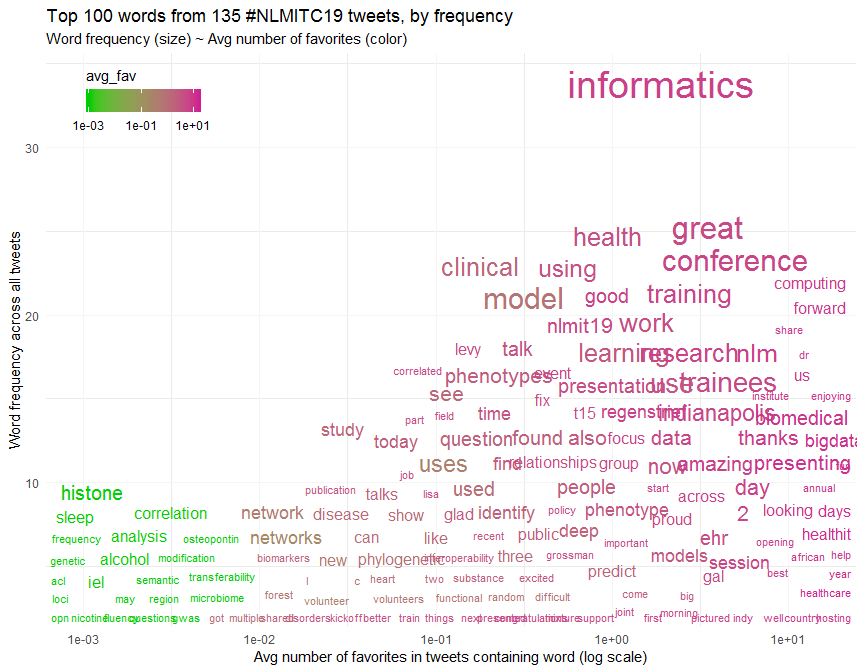
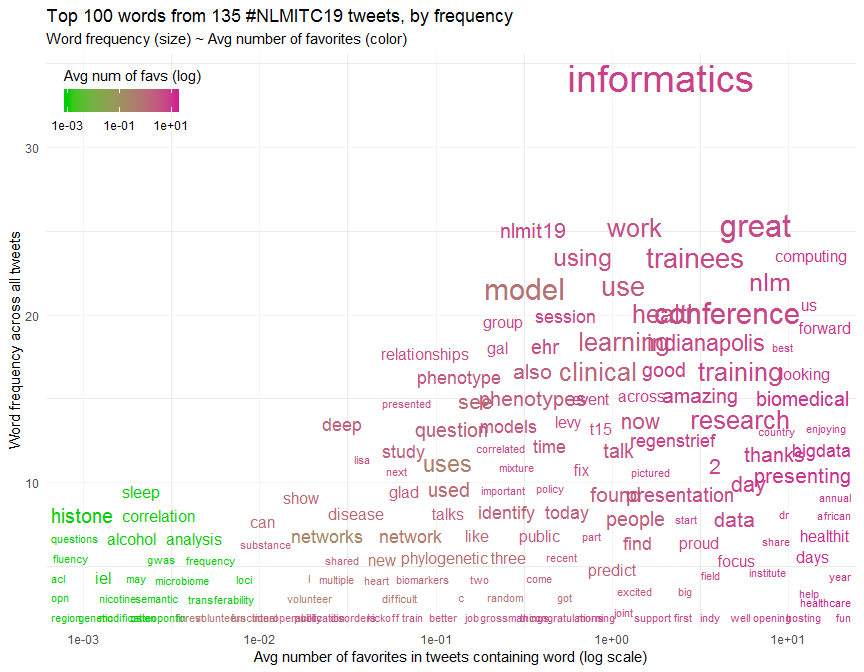
Minor changes and plot follower count vs favorites

Changed region(s): [[0.0625, 0.3125, 1.0, 0.9375], [0.0625, 0.0938, 0.25, 0.2188], [0.6562, 0.0938, 0.875, 0.1562]]

diff --git a/README.md b/README.md
@@ -6,8 +6,6 @@
 -   [Relationship between follower count and tweet
     popularity](#relationship-between-follower-count-and-tweet-popularity)
 -   [Chatterplot of tweet words](#chatterplot-of-tweet-words)
--   [Resources that have helped me along the
-    way](#resources-that-have-helped-me-along-the-way)
 -   [Session information](#session-information)
 
 Load libraries
@@ -56,6 +54,9 @@ But instead, here I’ll just look up the status IDs.
 
 General tweet prevalence over time
 ----------------------------------
+
+Code modified from
+[`rstudioconf_tweets`](https://github.com/mkearney/rstudioconf_tweets).
 
     rt %>%
       ts_plot("30 minutes", color = "transparent") +
@@ -115,190 +116,42 @@ Relationship between follower count and tweet popularity
 
 Do more followers have more popular tweets?
 
+I take the average number of favorite of an individual’s tweets and
+normalize it based on the total number of tweets.
+
     rt %>%
       # Preprocess and count average favorites normalized by number of tweets
       group_by(screen_name) %>%
       mutate(avg_fav = mean(favorite_count)) %>%
+      mutate(avg_norm_fav = avg_fav / n()) %>%
       ungroup() %>%
-      select(screen_name, avg_fav, followers_count) %>%
-      distinct()
+      select(screen_name, avg_fav, avg_norm_fav, followers_count) %>%
+      distinct() %>%
 
-<table>
-<thead>
-<tr class="header">
-<th style="text-align: left;">screen_name</th>
-<th style="text-align: right;">avg_fav</th>
-<th style="text-align: right;">followers_count</th>
-</tr>
-</thead>
-<tbody>
-<tr class="odd">
-<td style="text-align: left;">mirzakhan_</td>
-<td style="text-align: right;">2.0000000</td>
-<td style="text-align: right;">12</td>
-</tr>
-<tr class="even">
-<td style="text-align: left;">BioMedDataSci</td>
-<td style="text-align: right;">1.0000000</td>
-<td style="text-align: right;">174</td>
-</tr>
-<tr class="odd">
-<td style="text-align: left;">ColumbiaDBMI</td>
-<td style="text-align: right;">4.6666667</td>
-<td style="text-align: right;">175</td>
-</tr>
-<tr class="even">
-<td style="text-align: left;">FSPH_IUPUI</td>
-<td style="text-align: right;">2.6666667</td>
-<td style="text-align: right;">885</td>
-</tr>
-<tr class="odd">
-<td style="text-align: left;">varunamohan</td>
-<td style="text-align: right;">0.5000000</td>
-<td style="text-align: right;">141</td>
-</tr>
-<tr class="even">
-<td style="text-align: left;">JamiJackson</td>
-<td style="text-align: right;">7.5000000</td>
-<td style="text-align: right;">1250</td>
-</tr>
-<tr class="odd">
-<td style="text-align: left;">real_kev</td>
-<td style="text-align: right;">10.5000000</td>
-<td style="text-align: right;">282</td>
-</tr>
-<tr class="even">
-<td style="text-align: left;">Regenstrief</td>
-<td style="text-align: right;">6.0000000</td>
-<td style="text-align: right;">1892</td>
-</tr>
-<tr class="odd">
-<td style="text-align: left;">hshoch</td>
-<td style="text-align: right;">6.0000000</td>
-<td style="text-align: right;">350</td>
-</tr>
-<tr class="even">
-<td style="text-align: left;">DanielPanyard</td>
-<td style="text-align: right;">3.3333333</td>
-<td style="text-align: right;">52</td>
-</tr>
-<tr class="odd">
-<td style="text-align: left;">ngehlenborg</td>
-<td style="text-align: right;">9.0000000</td>
-<td style="text-align: right;">2678</td>
-</tr>
-<tr class="even">
-<td style="text-align: left;">EricFeczko</td>
-<td style="text-align: right;">3.0000000</td>
-<td style="text-align: right;">162</td>
-</tr>
-<tr class="odd">
-<td style="text-align: left;">dpugrad01</td>
-<td style="text-align: right;">5.7142857</td>
-<td style="text-align: right;">671</td>
-</tr>
-<tr class="even">
-<td style="text-align: left;">erictleung</td>
-<td style="text-align: right;">0.9107143</td>
-<td style="text-align: right;">653</td>
-</tr>
-<tr class="odd">
-<td style="text-align: left;">titusschleyer</td>
-<td style="text-align: right;">10.6000000</td>
-<td style="text-align: right;">950</td>
-</tr>
-<tr class="even">
-<td style="text-align: left;">aaron_coyner</td>
-<td style="text-align: right;">6.0000000</td>
-<td style="text-align: right;">123</td>
-</tr>
-<tr class="odd">
-<td style="text-align: left;">JoshHerigon</td>
-<td style="text-align: right;">12.0000000</td>
-<td style="text-align: right;">947</td>
-</tr>
-<tr class="even">
-<td style="text-align: left;">griffinashleyc</td>
-<td style="text-align: right;">0.0000000</td>
-<td style="text-align: right;">73</td>
-</tr>
-<tr class="odd">
-<td style="text-align: left;">steminformatics</td>
-<td style="text-align: right;">8.0000000</td>
-<td style="text-align: right;">118</td>
-</tr>
-<tr class="even">
-<td style="text-align: left;">jmschabdach</td>
-<td style="text-align: right;">2.0000000</td>
-<td style="text-align: right;">0</td>
-</tr>
-<tr class="odd">
-<td style="text-align: left;">williamhersh</td>
-<td style="text-align: right;">7.8000000</td>
-<td style="text-align: right;">2460</td>
-</tr>
-<tr class="even">
-<td style="text-align: left;">NateApathy</td>
-<td style="text-align: right;">4.3333333</td>
-<td style="text-align: right;">451</td>
-</tr>
-<tr class="odd">
-<td style="text-align: left;">bacordier</td>
-<td style="text-align: right;">6.5000000</td>
-<td style="text-align: right;">117</td>
-</tr>
-<tr class="even">
-<td style="text-align: left;">EDHGates</td>
-<td style="text-align: right;">0.5000000</td>
-<td style="text-align: right;">14</td>
-</tr>
-<tr class="odd">
-<td style="text-align: left;">InSiliConjurer</td>
-<td style="text-align: right;">3.0000000</td>
-<td style="text-align: right;">108</td>
-</tr>
-<tr class="even">
-<td style="text-align: left;">embimd</td>
-<td style="text-align: right;">9.0000000</td>
-<td style="text-align: right;">1537</td>
-</tr>
-<tr class="odd">
-<td style="text-align: left;">TelementalHlth</td>
-<td style="text-align: right;">15.0000000</td>
-<td style="text-align: right;">47</td>
-</tr>
-<tr class="even">
-<td style="text-align: left;">vekerchberger</td>
-<td style="text-align: right;">2.0000000</td>
-<td style="text-align: right;">23</td>
-</tr>
-<tr class="odd">
-<td style="text-align: left;">DBMI_Pitt</td>
-<td style="text-align: right;">3.0000000</td>
-<td style="text-align: right;">793</td>
-</tr>
-<tr class="even">
-<td style="text-align: left;">SciPolSam</td>
-<td style="text-align: right;">3.0000000</td>
-<td style="text-align: right;">164</td>
-</tr>
-<tr class="odd">
-<td style="text-align: left;">AJAveritt</td>
-<td style="text-align: right;">8.0000000</td>
-<td style="text-align: right;">57</td>
-</tr>
-<tr class="even">
-<td style="text-align: left;">MollyJCarroll</td>
-<td style="text-align: right;">4.5000000</td>
-<td style="text-align: right;">94</td>
-</tr>
-<tr class="odd">
-<td style="text-align: left;">andrewsjourney</td>
-<td style="text-align: right;">3.0000000</td>
-<td style="text-align: right;">116</td>
-</tr>
-</tbody>
-</table>
+      # Offset to not create infinite values when log transforming
+      mutate(followers_count = followers_count + 0.001) %>%
+      mutate(avg_norm_fav = avg_norm_fav + 0.001) %>%
+
+      # Plot results
+      ggplot(aes(x = followers_count, y = avg_norm_fav, label = screen_name)) +
+      geom_text_repel() +
+      geom_point() +
+
+      # Use log-scale for x-axis and y-axis
+      scale_x_log10() +
+      labs(title = "Average normalized number of favorites\nversus user follower count",
+           x = "Number of followers (log scale)",
+           y = "Average normalized number of favorites",
+           caption = "\nSource: Data gathered via Twitter's standard `search/tweets` API using rtweet") +
+
+      # Theme styling information
+      theme_minimal(base_size = 15) +
+      theme(axis.text = element_text(colour = "#222222"),
+            plot.title = element_text(size = rel(1.7), face = "bold"),
+            plot.subtitle = element_text(size = rel(1.3)),
+            plot.caption = element_text(colour = "#444444"))
+
+![](README_files/figure-markdown_strict/follower_vs_favorites-1.png)
 
 Chatterplot of tweet words
 --------------------------
@@ -348,6 +201,9 @@ Chatterplot of tweet words
       filter(word != "nlmitc19") %>%
       left_join(rt_word_avg_fav, by = "word")
 
+Code below modified from [“RIP wordclouds, long live
+CHATTERPLOTS”](https://towardsdatascience.com/rip-wordclouds-long-live-chatterplots-e76a76896098).
+
     chatter_rt %>%
       # Add small offset average favorite counts because some are zero and we log
       # transform, which can introduce infinite values
@@ -376,7 +232,8 @@ Chatterplot of tweet words
                      " #NLMITC19 tweets, by frequency"),
               subtitle = "Word frequency (size) ~ Avg number of favorites (color)") + 
       labs(y = "Word frequency across all tweets",
-           x = "Avg number of favorites in tweets containing word (log scale)") +
+           x = "Avg number of favorites in tweets containing word (log scale)",
+           colour = "Avg num of favs (log)") +
       
       # minimal theme & customizations
       theme_minimal() +
@@ -385,13 +242,6 @@ Chatterplot of tweet words
             panel.grid.major = element_line(colour = "whitesmoke"))
 
 ![](README_files/figure-markdown_strict/plot_chatter-1.png)
-
-Resources that have helped me along the way
--------------------------------------------
-
--   [rstudioconf\_tweets](https://github.com/mkearney/rstudioconf_tweets)
--   [RIP wordclouds, long live
-    CHATTERPLOTS](https://towardsdatascience.com/rip-wordclouds-long-live-chatterplots-e76a76896098)
 
 Session information
 -------------------
@@ -426,14 +276,13 @@ Session information
     ## [13] withr_2.1.2       modelr_0.1.4      readxl_1.3.1     
     ## [16] plyr_1.8.4        munsell_0.5.0     gtable_0.3.0     
     ## [19] cellranger_1.1.0  rvest_0.3.2       evaluate_0.13    
-    ## [22] labeling_0.3      knitr_1.22        highr_0.8        
-    ## [25] broom_0.5.1       tokenizers_0.2.1  Rcpp_1.0.1       
-    ## [28] scales_1.0.0      backports_1.1.3   jsonlite_1.6     
-    ## [31] stopwords_0.9.0   hms_0.4.2         digest_0.6.18    
-    ## [34] stringi_1.4.3     grid_3.5.0        cli_1.1.0        
-    ## [37] tools_3.5.0       magrittr_1.5      lazyeval_0.2.2   
-    ## [40] janeaustenr_0.1.5 crayon_1.3.4      pkgconfig_2.0.2  
-    ## [43] Matrix_1.2-16     xml2_1.2.0        lubridate_1.7.4  
-    ## [46] assertthat_0.2.1  rmarkdown_1.12    httr_1.4.0       
-    ## [49] rstudioapi_0.10   R6_2.4.0          nlme_3.1-137     
-    ## [52] compiler_3.5.0
+    ## [22] labeling_0.3      knitr_1.22        broom_0.5.1      
+    ## [25] tokenizers_0.2.1  Rcpp_1.0.1        scales_1.0.0     
+    ## [28] backports_1.1.3   jsonlite_1.6      stopwords_0.9.0  
+    ## [31] hms_0.4.2         digest_0.6.18     stringi_1.4.3    
+    ## [34] grid_3.5.0        cli_1.1.0         tools_3.5.0      
+    ## [37] magrittr_1.5      lazyeval_0.2.2    janeaustenr_0.1.5
+    ## [40] crayon_1.3.4      pkgconfig_2.0.2   Matrix_1.2-16    
+    ## [43] xml2_1.2.0        lubridate_1.7.4   assertthat_0.2.1 
+    ## [46] rmarkdown_1.12    httr_1.4.0        rstudioapi_0.10  
+    ## [49] R6_2.4.0          nlme_3.1-137      compiler_3.5.0
